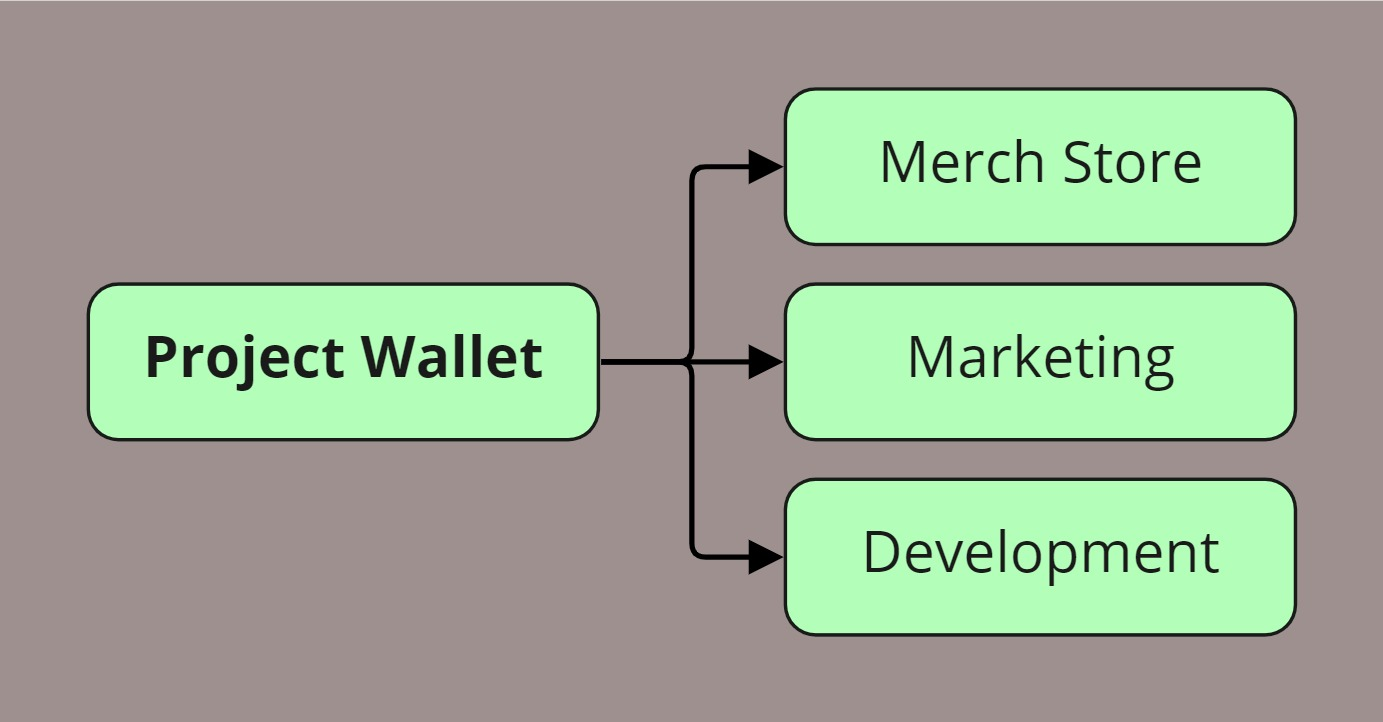
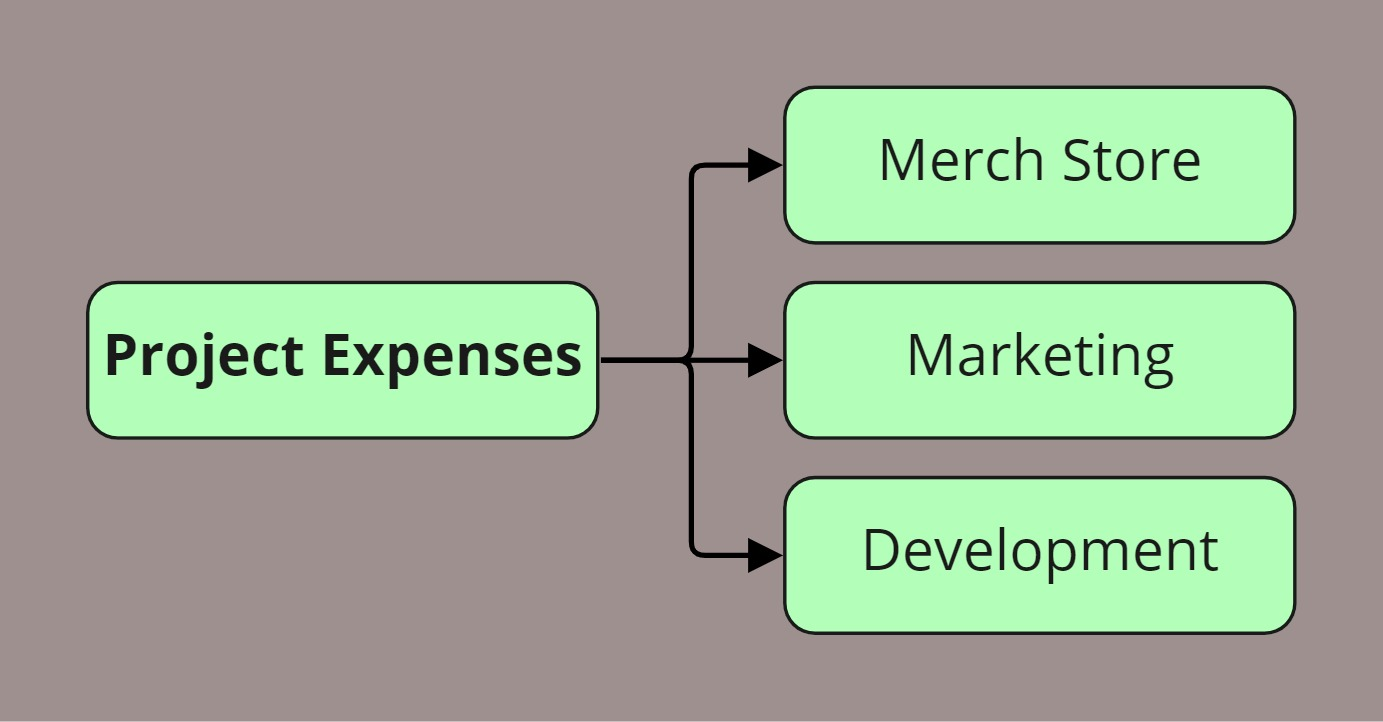
GitBook: [#45] No subject

diff --git a/i-want-to-know-more/funds-allocation.md b/i-want-to-know-more/funds-allocation.md
@@ -4,75 +4,56 @@ description: In this section, you can learn more about our funds' allocation.
 
 # 🏛 Funds Allocation
 
-## INDEX
-
-1. &#x20;[**Initial Sale**](funds-allocation.md#initial-sale) **** ✨
-2. [**Treasury**](funds-allocation.md#treasury) **** 💵
-   * [Colony Investment Program (CIP)](funds-allocation.md#colony-investment-program-cip) 📈
-3. [**Project Wallet**](funds-allocation.md#project-wallet) **** 💼
-   * [Merch Store](funds-allocation.md#merch-store) 🛍
-   * [Marketing](funds-allocation.md#marketing) 📡
-   * [Development](funds-allocation.md#development) 🧰
-4. [**Royalty**](funds-allocation.md#royalty) **** 💲
-
 ## Initial Sale ✨
 
 Distributions from minting sales are as follow:
 
-* 56% to Treasury
-* 14% to Project Wallet
-* 30% to Team
+* 70% to Project Wallet.
+* 30% to Team.
 
-![](<../.gitbook/assets/Finance - DOCS ALLOCATION A 1.jpg>)
+## Project Wallet 🚀
+
+Project Wallet will be maintained together by the Colony and Team. It is vital for our future project development like Gamification V2, Merch Store, Marketing, and overall welfare of the Colony. In a Nutshell, the Project Wallet is our thrust engine that keeps our Spaceship (Messiah) exploring the fastness space of Terraverse.
+
+![](<../.gitbook/assets/Finance - Project Wallet.jpg>)
 
 ## Treasury 💵
 
-More than half of our initial sales will go to the Treasury. The funds in the Treasury will be later managed by the community decision (DAO). At first, we will allocate the funds to the Colony Investment Program.
-
-After the initial Colony Investment Program, we will keep using the Treasury for the Colony's benefit! The Colony will have an open discussion on how we spend the Treasury. These are some standard ideas but not limited to:
-
-* Reinvest in Colony Investment Program
-* Raising CogniviteArk floor price
-* Boost the Staking Pool
-* Boost the Gamification rewards
-
-The Team will provide the necessary platform for the Colony to open a discussion and vote.
-
-![](<../.gitbook/assets/Finance - DOCS ALLOCATION A 2.jpg>)
+The funds in the Treasury will be later managed by the community decision (DAO). At first, we will allocate the funds to the Colony Investment Program.
 
 ### Colony Investment Program (CIP) 📈
 
-With the Colony behind the Treasury, we will discover the best yet safest investment on Terra Ecosystem. So use your DeFi knowledge to make a proposal and vote for the best suggestion to boost our Colony further!
+With the Colony behind the Treasury, we will discover the best yet safest investment on Terra Ecosystem. So use your DeFi knowledge to make a proposal and vote for the best strategy suggestion to expand our Colony economy!
 
 The first CIP allocation is as follows:
 
 * 70% into Anchor to receive \~19,47 APY in $UST.
 * 30% into the community chosen project on Terra.
 
-{% hint style="warning" %}
-The Colony will be able to submit a proposal after our initial minting phase is over.
+{% hint style="info" %}
+After the initial Colony Investment Program, the Colony will be able to submit a proposal after our initial minting phase is over.
 
-Remember that the CIP is the backbone of our project sustainability.&#x20;
+The Team will provide the necessary platform for the Colony to open a discussion and vote.
 {% endhint %}
 
-The profit of CIP will be distributed each month:
+Some standard ideas but not limited to:
 
-* 40% back to the Treasury
-* 30% to Gamification rewards
-* 10% to Project Wallet
-* 20% to Team
+* Reinvest in Colony Investment Program
+* Raising Memory floor price
+* Boost the Staking Pool
+* Boost the Gamification rewards
 
-## Project Wallet 💼
+## Project Expenses💼
 
-It is crucial for the Colony to be able to separate Treasury from Project wallet because we have a long road ahead of us.
+![](<../.gitbook/assets/Finance - DOCS ALLOCATION A 3.jpg>)
+
+It is crucial for the Colony to be able to separate Treasury from Project expenses because we have a long road ahead of us.
 
 We will use the Project Wallet mainly on:&#x20;
 
+* Merch Store!
 * Marketing
 * Development
-* Merch Store!
-
-![](<../.gitbook/assets/Finance - DOCS ALLOCATION A 3.jpg>)
 
 ### Merch Store 🛍
 
@@ -82,13 +63,13 @@ We will funnel the profits back into the Treasury and Project Wallet and increas
 
 ### Marketing 📡
 
-We will use the Marketing funds to expand our exposure to other communities. The focus will be on media content like videos, images, and other assets.
+We will use the Marketing funds to expand our exposure to other communities. The focus will be on media content like videos, images, and collaborations.
 
-### Development 🧰📡
+### Development 🧰
 
 We are here to stay and innovate! To be able to terraform the NFT community is our primary goal. We will explore the possibilities of NFT 2.0 to bring more dynamics into our gamification.
 
-## Royalty 💲
+## Royalty&#x20;
 
 The royalties from the secondary NFT marketplace are distributed directly into the Staking Pool, where the Colony can claim the funds on our Dashboard on the website.
 
@@ -96,7 +77,18 @@ The royalties from the secondary NFT marketplace are distributed directly into t
 Get a higher share from the staking pools by filling those multiplier slots.&#x20;
 {% endhint %}
 
-<mark style="color:yellow;"></mark>
+The royalty distribution based on the secondary marketplace:
 
-![](<../.gitbook/assets/Finance - DOCS ALLOCATION A 4.jpg>)
+* **Knowhere (5%)**
+  * 4,5% to Project Wallet
+  * 0,5% to Team
+* **Random Earth (5%)**
+  * 4,5% to Project Wallet
+  * 0,5% to Team
+* **Luart (3,5%)**
+  * 3,15% to Project Wallet
+  * 0,35% to Team
+
+\
+
 

diff --git a/lets-terraform-the-nft-culture/lore.md b/lets-terraform-the-nft-culture/lore.md
@@ -10,7 +10,7 @@ During the search, humanity has faced its biggest obstacle: _Existence_.
 
 To prolong their existence, humanity has created _The Cognitive Ark_- a device that makes consciousness transfer possible.”
 
-![](<../.gitbook/assets/Terra News - The Rapture Effect.png>)
+![](broken-reference)
 
 {% hint style="info" %}
 **Good to know:** Splitting your product into fundamental concepts, objects, or areas can be a great way to let readers deep dive into the concepts that matter most to them.
